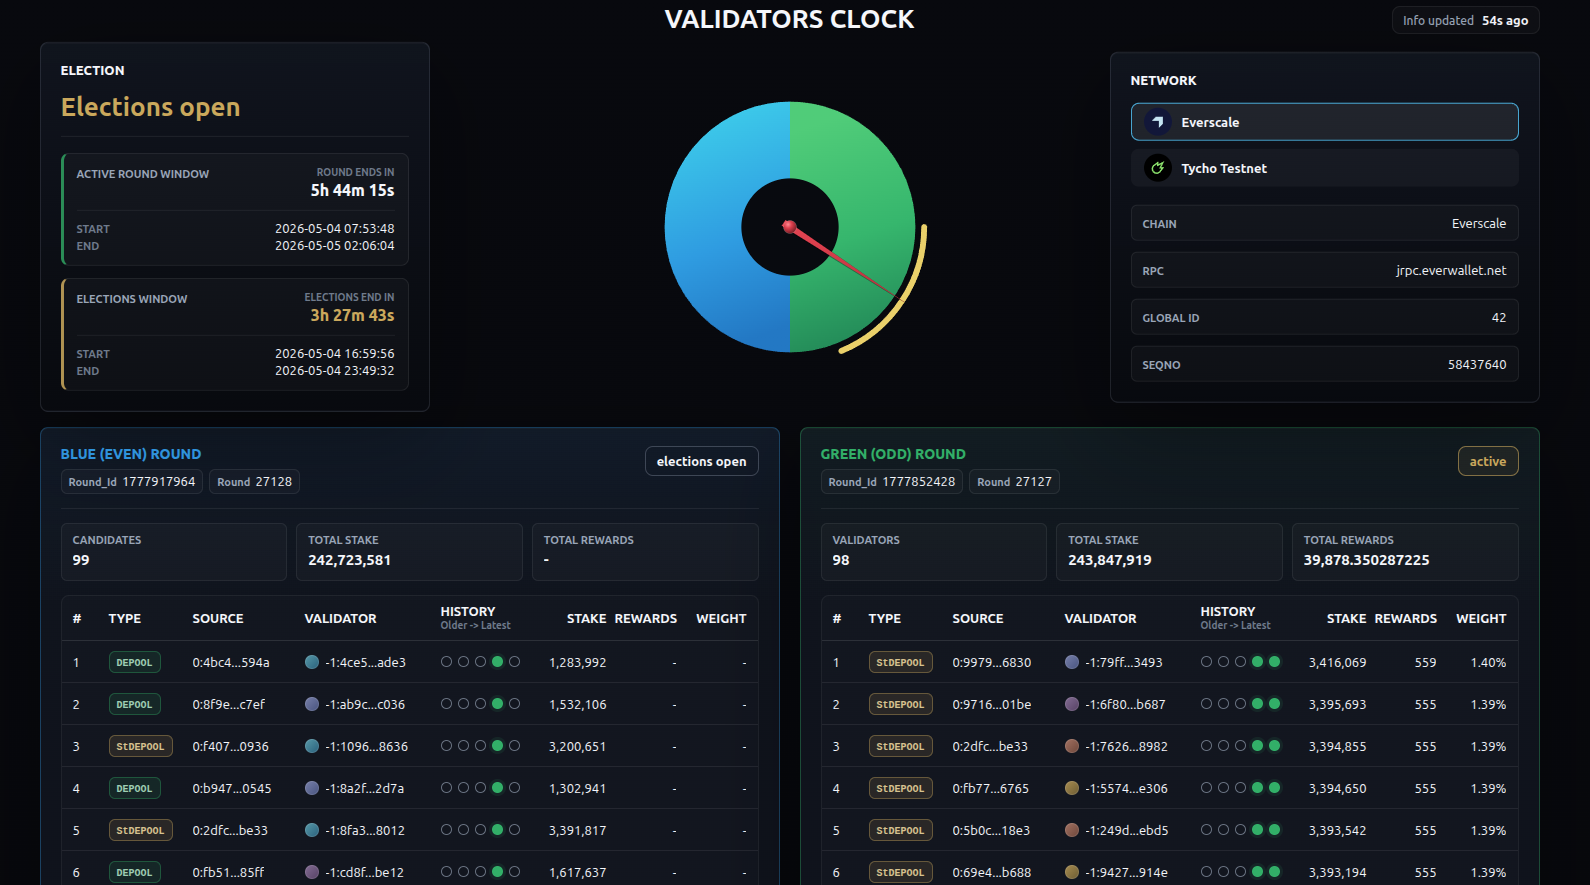
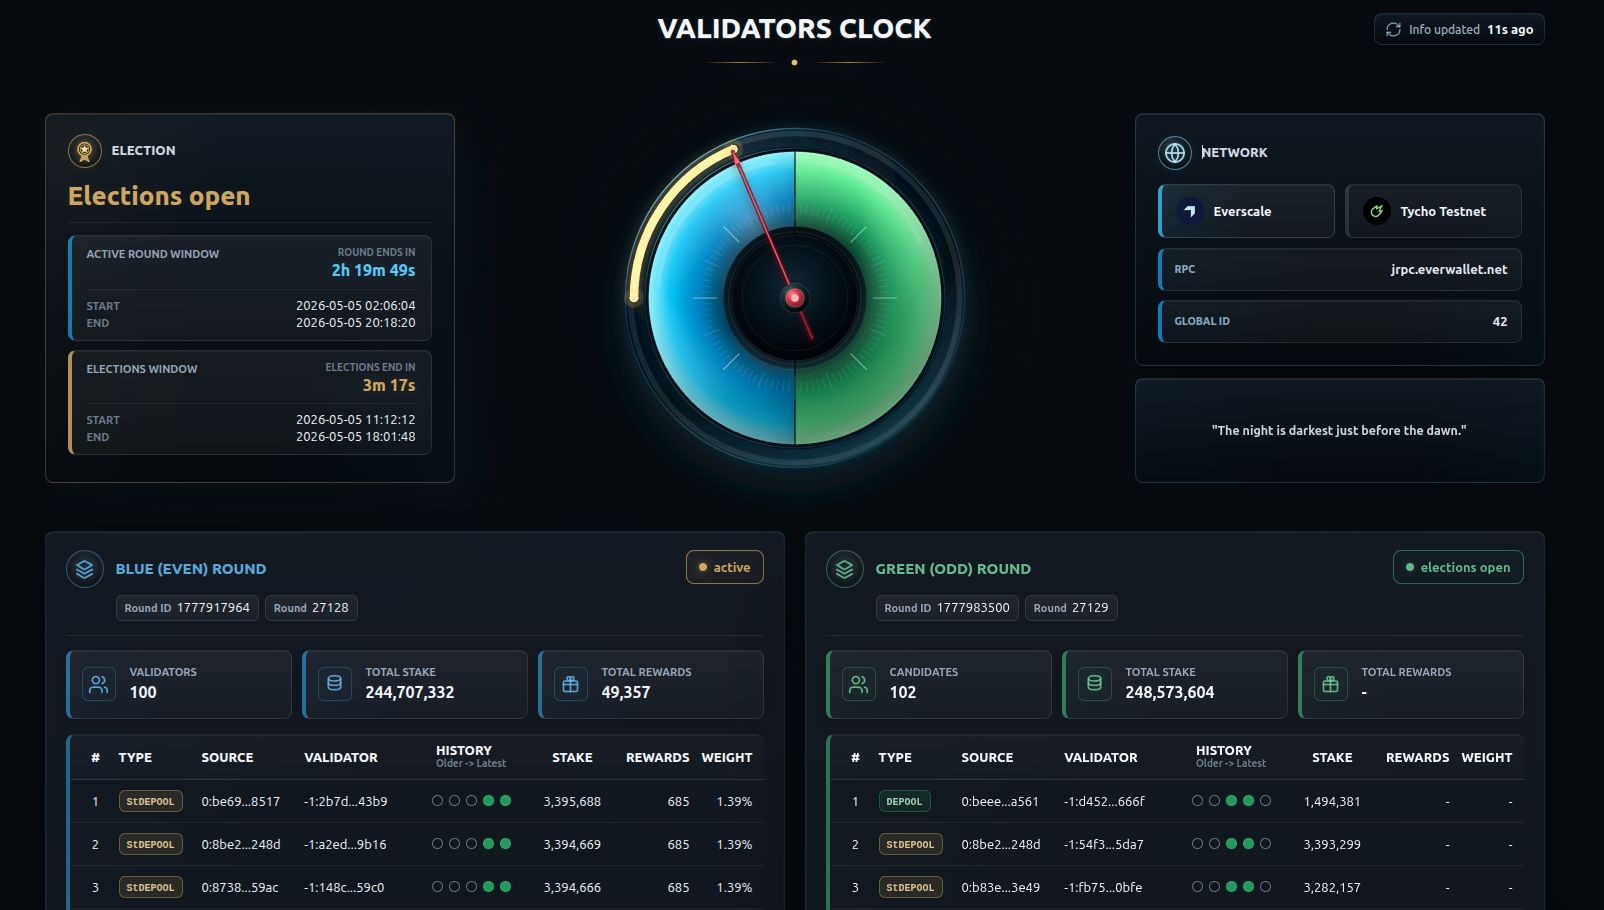
Update dashboard screenshot and jokes

diff --git a/public/styles.css b/public/styles.css
@@ -498,11 +498,11 @@ h2 {
 
 #metricStatus {
   color: var(--gold);
-  font-family: Georgia, "Times New Roman", serif;
+  font-family: var(--font-sans);
   font-size: 26px;
-  font-weight: 600;
-  line-height: 1.05;
-  text-shadow: 0 0 10px rgba(202, 168, 92, 0.1);
+  font-weight: 760;
+  line-height: 1.08;
+  text-shadow: 0 0 9px rgba(202, 168, 92, 0.08);
 }
 
 .election-timing-groups {
@@ -1233,9 +1233,9 @@ dd {
 }
 
 .validator-table {
-  --validator-grid-columns: 28px 70px minmax(98px, 1.08fr) minmax(124px, 1.36fr) 86px minmax(80px, 0.76fr) minmax(70px, 0.66fr) minmax(56px, 0.56fr);
+  --validator-grid-columns: 28px 74px minmax(92px, 0.98fr) minmax(106px, 1.02fr) 104px minmax(78px, 0.84fr) minmax(68px, 0.68fr) minmax(54px, 0.52fr);
   width: 100%;
-  min-width: 690px;
+  min-width: 700px;
   overflow: hidden;
   border: 1px solid rgba(255, 255, 255, 0.085);
   border-left: 4px solid color-mix(in srgb, var(--round-color) 56%, white 4%);
@@ -1249,7 +1249,7 @@ dd {
 }
 
 .validator-table.is-absent {
-  min-width: 690px;
+  min-width: 700px;
 }
 
 .validator-header,
@@ -1313,6 +1313,17 @@ dd {
 .validator-header .validator-cell {
   overflow: visible;
   text-overflow: clip;
+}
+
+.validator-header .validator-cell:nth-child(1),
+.validator-row .validator-cell:nth-child(1) {
+  justify-self: center;
+  text-align: center;
+}
+
+.validator-header .validator-cell:nth-child(5),
+.validator-row .validator-cell:nth-child(5) {
+  justify-self: center;
 }
 
 .validator-header .validator-cell:nth-child(6),
@@ -1401,25 +1412,10 @@ dd {
   font-weight: 680;
 }
 
-.validator-source-direct::before,
-.validator-source-unknown::before {
-  content: "";
-  width: 5px;
-  height: 5px;
-  margin-right: 6px;
-  border-radius: 50%;
-  background: color-mix(in srgb, var(--round-color) 52%, var(--gold) 10%);
-  opacity: 0.76;
-}
-
 .validator-source-unknown {
   border-color: rgba(154, 166, 184, 0.22);
   background: rgba(154, 166, 184, 0.055);
   color: rgba(195, 204, 216, 0.84);
-}
-
-.validator-source-unknown::before {
-  background: rgba(154, 166, 184, 0.78);
 }
 
 .validator-type {